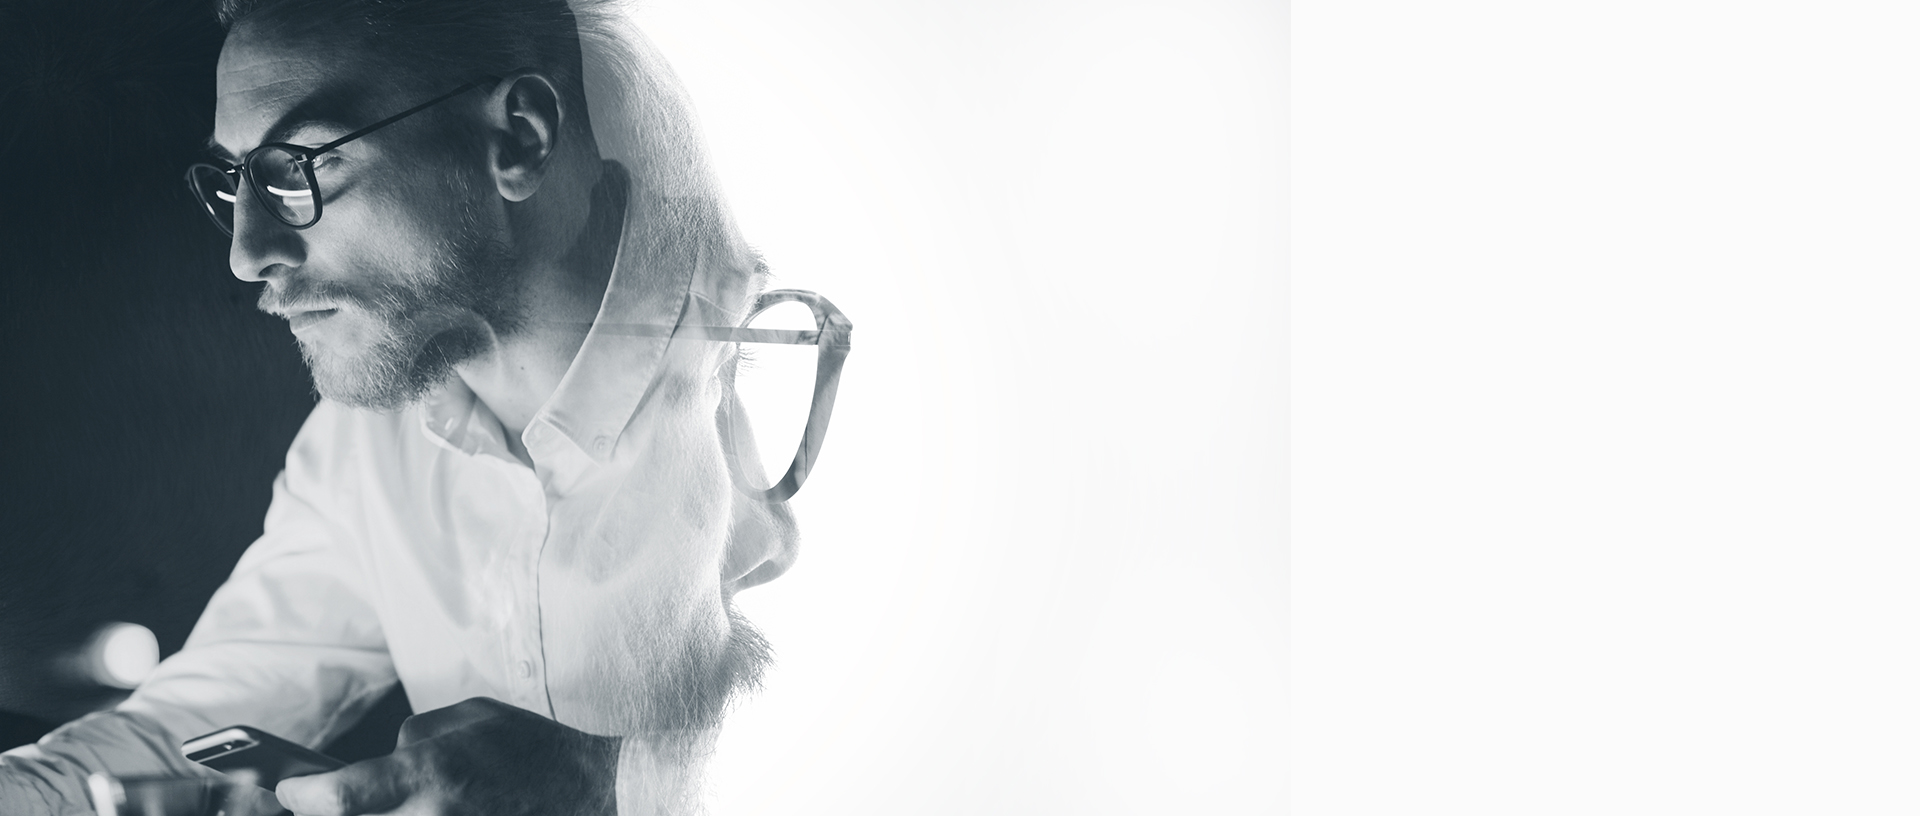
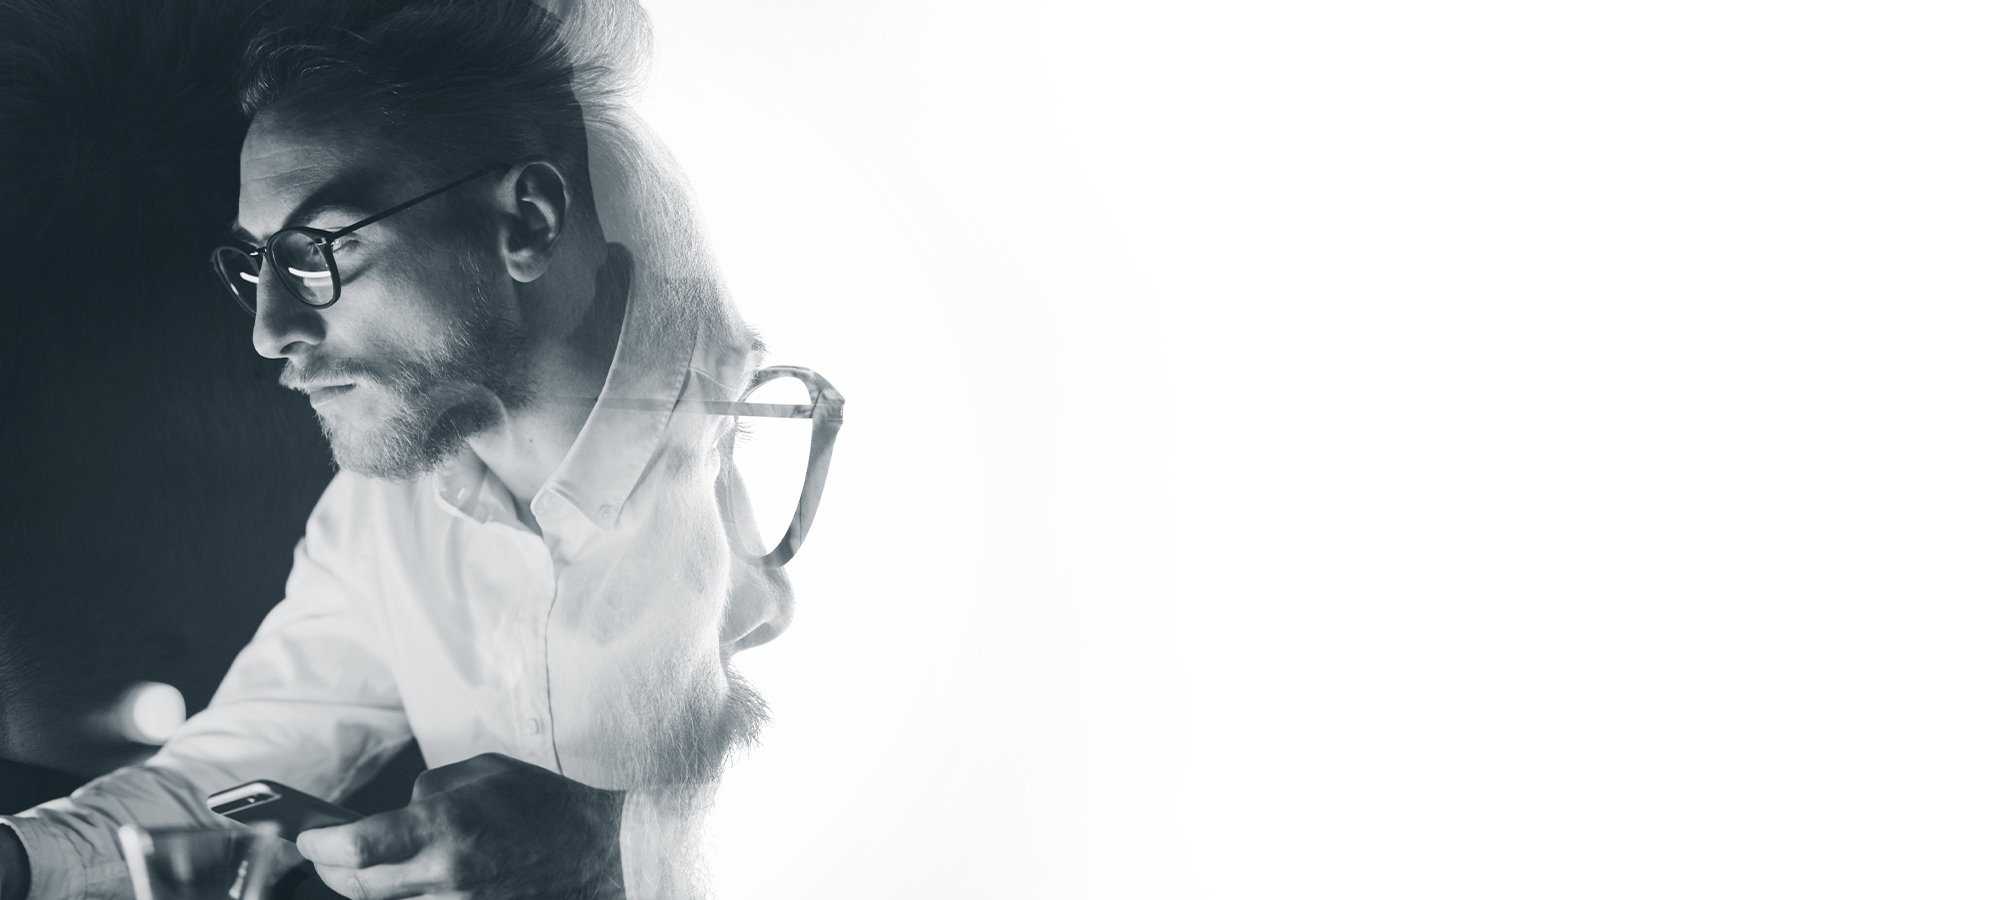
--

Changed region(s): [[0.0, 0.0, 0.4688, 1.0], [0.125, 0.5515, 0.1562, 0.7047]]

diff --git a/src/sass/content/about-us.sass b/src/sass/content/about-us.sass
@@ -4,10 +4,10 @@
     image: url('../images/content/shutterstock.jpg')
     repeat: no-repeat
     size: auto 100%
-    color: #fbfbfb
-    position: left top
-  background-position-x: 25%
+    color: #ffffff
+    position: -25px top
   +laptop-down-1600
+    background-position-x: 25%
     height: auto
   +ipad-down
     background-position: left top
